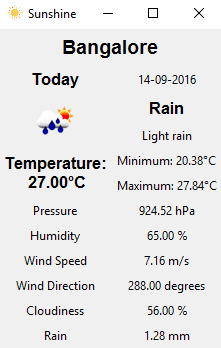
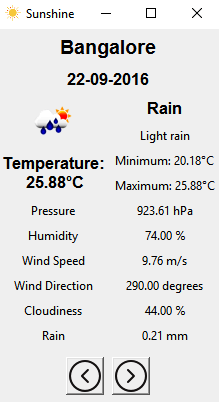
add feature to view weather of next 7 days

diff --git a/weather.py b/weather.py
@@ -11,32 +11,46 @@ from sys import platform as sp
 
 
 class Weather:
-
     def __init__(self, master):
         self.city_name = "Bangalore"
+        self.day = 0
         self.custom_font = tkFont.Font(family="Helvetica", size=12, weight="bold")
         self.custom_heading_font = tkFont.Font(family="Helvetica", size=14, weight="bold")
         self.current_city_id = self.get_city_id(self.city_name)  # open weather map city id
         if self.current_city_id != -1:  # if city id found
             # initialization of all member variables to None
-            self.t_dt = self.t_temp_day = self.t_temp_min = self.t_temp_max = self.t_pressure = \
-                self.t_humidity = self.t_weather_icon = self.t_weather_main = self.t_weather_desc = \
-                self.t_wind_speed = self.t_wind_dir = self.t_cloudiness = self.t_rain = None
+            self.t_dt = StringVar()
+            self.t_temp_day = StringVar()
+            self.t_temp_min = StringVar()
+            self.t_temp_max = StringVar()
+            self.t_pressure = StringVar()
+            self.t_humidity = StringVar()
+            self.t_weather_icon_url = None
+            self.t_weather_main = StringVar()
+            self.t_weather_desc = StringVar()
+            self.t_wind_speed = StringVar()
+            self.t_wind_dir = StringVar()
+            self.t_cloudiness = StringVar()
+            self.t_rain = StringVar()
+            self.label_weather_icon = Label(master)
             # retrieve and display weather data
-            self.get_weather_today(self.current_city_id)
+            self.get_weather(self.current_city_id, self.day)
             self.display_data(master)
 
-            # console log
-            print("UNIX Date: %d, Date: %s" % (self.t_dt, (datetime.datetime.fromtimestamp(self.t_dt))
-                                               .strftime('%d-%m-%Y %H:%M:%S')))
-            print("Temp day: %0.2f%sC" % (self.t_temp_day, degree_sign.encode('utf-8')))
-            print("Pressure: %0.2f hPa" % self.t_pressure)
-            print("Humidity: %0.2f %%" % self.t_humidity)
-            print("Weather: %s, Description: %s" % (self.t_weather_main, self.t_weather_desc))
-            print("Wind Speed: %0.2f m/s" % self.t_wind_speed)
-            print("Wind Direction, degrees: %0.2f" % self.t_wind_dir)
-            print("Cloudiness: %0.2f %%" % self.t_cloudiness)
-            print("Rain: %0.2f mm" % self.t_rain)
+            # bottom navigation frame
+            bottom_frame = Frame(master, height=2, borderwidth=1, relief=FLAT)
+            bottom_frame.grid(row=12, columnspan=2, padx=4, pady=4)
+
+            prev_img = ImageTk.PhotoImage(file="prev.png")
+            self.prev_button = Button(bottom_frame, text="<<", image=prev_img, command=self.go_to_prev)
+            self.prev_button.image = prev_img
+            self.prev_button.grid(row=12, column=0, padx=4, pady=4)
+            self.prev_button.config(state=DISABLED)
+
+            next_img = ImageTk.PhotoImage(file="next.png")
+            self.next_button = Button(bottom_frame, text=">>", image=next_img, command=self.go_to_next)
+            self.next_button.image = next_img
+            self.next_button.grid(row=12, column=1, padx=4, pady=4)
 
         else:
             # city id not found
@@ -44,32 +58,37 @@ class Weather:
             label_invalid.pack()
 
     # get the weather information of the passed city id
-    def get_weather_today(self, current_city_id):
+    def get_weather(self, current_city_id, day):
         current_weather_url = "http://api.openweathermap.org/data/2.5/forecast/daily?id=%d&units=metric&appid=%s" \
                               % (current_city_id, OPEN_WEATHER_API_KEY)
         with contextlib.closing(urlopen(current_weather_url)) as response:
             json_data = json.load(response)
         weather_list = json_data['list']
-        json_data_list = weather_list[0]
+        json_data_list = weather_list[day]
+        print(json_data_list)
         self.load_data_from_json(json_data_list)
 
     # retrieve data from passed json object
     def load_data_from_json(self, cur_json_list):
-        self.t_dt = cur_json_list['dt']
+        self.t_dt.set((datetime.datetime.fromtimestamp(cur_json_list['dt'])).strftime('%d-%m-%Y'))
         t_temp = cur_json_list['temp']
-        self.t_temp_day = t_temp['day']
-        self.t_temp_min = t_temp['min']
-        self.t_temp_max = t_temp['max']
-        self.t_pressure = cur_json_list['pressure']
-        self.t_humidity = cur_json_list['humidity']
+        self.t_temp_day.set("Temperature:\n %0.2f%sC" % (t_temp['day'], degree_sign.encode('utf-8')))
+        self.t_temp_min.set("Minimum: %0.2f%sC" % (t_temp['min'], degree_sign.encode('utf-8')))
+        self.t_temp_max.set("Maximum: %0.2f%sC" % (t_temp['max'], degree_sign.encode('utf-8')))
+        self.t_pressure.set("%0.2f hPa" % cur_json_list['pressure'])
+        self.t_humidity.set("%0.2f %%" % cur_json_list['humidity'])
         t_weather = cur_json_list['weather'][0]
-        self.t_weather_main = t_weather['main']
-        self.t_weather_desc = t_weather['description']
-        self.t_weather_icon = t_weather['icon']
-        self.t_wind_speed = cur_json_list['speed']
-        self.t_wind_dir = cur_json_list['deg']
-        self.t_cloudiness = cur_json_list['clouds']
-        self.t_rain = cur_json_list['rain']
+        self.t_weather_main.set(t_weather['main'])
+        self.t_weather_desc.set(t_weather['description'].capitalize())
+        t_weather_icon = t_weather['icon']
+        self.t_weather_icon_url = "http://openweathermap.org/img/w/%s.png" % t_weather_icon
+        self.t_wind_speed.set("%0.2f m/s" % cur_json_list['speed'])
+        self.t_wind_dir.set("%0.2f degrees" % cur_json_list['deg'])
+        self.t_cloudiness.set("%0.2f %%" % cur_json_list['clouds'])
+        if 'rain' in cur_json_list:
+            self.t_rain.set("%0.2f mm" % cur_json_list['rain'])
+        else:
+            self.t_rain.set("No rain today.")
 
     # find open weather map city id for the given city name
     @staticmethod
@@ -82,61 +101,99 @@ class Weather:
             if city['name'] == city_name:
                 return city['_id']
         else:
-            return -1   # city id not found
+            return -1  # city id not found
 
     # display retrieved data on GUI
     def display_data(self, master):
         label_city = Label(master, text=self.city_name, font=self.custom_heading_font)
         label_city.grid(row=0, columnspan=2, padx=4, pady=4)
 
-        Label(master, text="Today", font=self.custom_font).grid(row=1, column=0, padx=2, pady=2)
-        label_time = Label(master, text=(datetime.datetime.fromtimestamp(self.t_dt)).strftime('%d-%m-%Y'))
-        label_time.grid(row=1, column=1, padx=2, pady=2)
+        label_time = Label(master, textvariable=self.t_dt, font=self.custom_font)
+        label_time.grid(row=1, columnspan=2, padx=2, pady=2)
 
-        weather_icon_url = "http://openweathermap.org/img/w/%s.png" % self.t_weather_icon
-        with contextlib.closing(urlopen(weather_icon_url)) as raw_data:
+        self.set_weather_icon()
+
+        Label(master, textvariable=self.t_weather_main, font=self.custom_font).grid(row=2, column=1, padx=2, pady=2)
+        Label(master, textvariable=self.t_weather_desc).grid(row=3, column=1, padx=2, pady=2)
+
+        label_temp_day = Label(master, textvariable=self.t_temp_day, font=self.custom_font)
+        label_temp_day.grid(row=4, column=0, rowspan=2, padx=2, pady=2)
+        Label(master, textvariable=self.t_temp_min).grid(row=4, column=1, padx=2, pady=2)
+        Label(master, textvariable=self.t_temp_max).grid(row=5, column=1, padx=2, pady=2)
+
+        Label(master, text="Pressure").grid(row=6, column=0, padx=2, pady=2)
+        Label(master, textvariable=self.t_pressure).grid(row=6, column=1, padx=2, pady=2)
+
+        Label(master, text="Humidity").grid(row=7, column=0, padx=2, pady=2)
+        Label(master, textvariable=self.t_humidity).grid(row=7, column=1, padx=2, pady=2)
+
+        Label(master, text="Wind Speed").grid(row=8, column=0, padx=2, pady=2)
+        Label(master, textvariable=self.t_wind_speed).grid(row=8, column=1, padx=2, pady=2)
+
+        Label(master, text="Wind Direction").grid(row=9, column=0, padx=2, pady=2)
+        Label(master, textvariable=self.t_wind_dir).grid(row=9, column=1, padx=2, pady=2)
+
+        Label(master, text="Cloudiness").grid(row=10, column=0, padx=2, pady=2)
+        Label(master, textvariable=self.t_cloudiness).grid(row=10, column=1, padx=2, pady=2)
+
+        Label(master, text="Rain").grid(row=11, column=0, padx=2, pady=2)
+        Label(master, textvariable=self.t_rain).grid(row=11, column=1, padx=2, pady=2)
+
+    # set the weather icon
+    def set_weather_icon(self):
+        with contextlib.closing(urlopen(self.t_weather_icon_url)) as raw_data:
             image = Image.open(BytesIO(raw_data.read()))
         weather_icon = ImageTk.PhotoImage(image)
-        label_icon = Label(master, image=weather_icon)
-        label_icon.image = weather_icon     # keep a reference
+        self.label_weather_icon.configure(image=weather_icon)
+        self.label_weather_icon.image = weather_icon  # keep a reference
         # When a PhotoImage object is garbage-collected by Python
         # (e.g. when you return from a function which stored an image in a local variable),
         # the image is cleared even if it is being displayed by a Tkinter widget.
         # To avoid this, the program must keep an extra reference to the image object.
-        label_icon.grid(row=2, rowspan=2, column=0)
-        Label(master, text=self.t_weather_main, font=self.custom_font).grid(row=2, column=1, padx=2, pady=2)
-        Label(master, text=self.t_weather_desc.capitalize()).grid(row=3, column=1, padx=2, pady=2)
+        self.label_weather_icon.grid(row=2, rowspan=2, column=0)
 
-        label_temp_day = Label(master, text="Temperature:\n %0.2f%sC" % (self.t_temp_day, degree_sign.encode('utf-8')),
-                               font=self.custom_font)
-        label_temp_day.grid(row=4, column=0, rowspan=2, padx=2, pady=2)
-        Label(master, text="Minimum: %0.2f%sC" % (self.t_temp_min, degree_sign.encode('utf-8')))\
-            .grid(row=4, column=1, padx=2, pady=2)
-        Label(master, text="Maximum: %0.2f%sC" % (self.t_temp_max, degree_sign.encode('utf-8')))\
-            .grid(row=5, column=1, padx=2, pady=2)
+    # get the previous day's weather
+    def go_to_prev(self):
+        print("Go to previous day")
+        self.day -= 1
+        if self.day > 6:
+            self.day = 6
+        elif self.day < 0:
+            self.day = 0
+        else:
+            self.get_weather(self.current_city_id, self.day)
+            self.set_weather_icon()
+        self.button_state_check()
 
-        Label(master, text="Pressure").grid(row=6, column=0, padx=2, pady=2)
-        Label(master, text="%0.2f hPa" % self.t_pressure).grid(row=6, column=1, padx=2, pady=2)
+    # get the next day's weather
+    def go_to_next(self):
+        print("Go to next day")
+        self.day += 1
+        if self.day > 6:
+            self.day = 6
+        elif self.day < 0:
+            self.day = 0
+        else:
+            self.get_weather(self.current_city_id, self.day)
+            self.set_weather_icon()
+        self.button_state_check()
 
-        Label(master, text="Humidity").grid(row=7, column=0, padx=2, pady=2)
-        Label(master, text="%0.2f %%" % self.t_humidity).grid(row=7, column=1, padx=2, pady=2)
-
-        Label(master, text="Wind Speed").grid(row=8, column=0, padx=2, pady=2)
-        Label(master, text="%0.2f m/s" % self.t_wind_speed).grid(row=8, column=1, padx=2, pady=2)
-
-        Label(master, text="Wind Direction").grid(row=9, column=0, padx=2, pady=2)
-        Label(master, text="%0.2f degrees" % self.t_wind_dir).grid(row=9, column=1, padx=2, pady=2)
-
-        Label(master, text="Cloudiness").grid(row=10, column=0, padx=2, pady=2)
-        Label(master, text="%0.2f %%" % self.t_cloudiness).grid(row=10, column=1, padx=2, pady=2)
-
-        Label(master, text="Rain").grid(row=11, column=0, padx=2, pady=2)
-        Label(master, text="%0.2f mm" % self.t_rain).grid(row=11, column=1, padx=2, pady=2)
+    # update the state of the navigation buttons
+    def button_state_check(self):
+        if self.day == 0:
+            self.prev_button.config(state=DISABLED)
+            self.next_button.config(state=NORMAL)
+        elif self.day == 6:
+            self.prev_button.config(state=NORMAL)
+            self.next_button.config(state=DISABLED)
+        else:
+            self.prev_button.config(state=NORMAL)
+            self.next_button.config(state=NORMAL)
 
 
 root = Tk()
 root.wm_title("Sunshine")
-if sp=='linux' or sp=='linux2' or sp=='darwin':
+if sp == 'linux' or sp == 'linux2' or sp == 'darwin':
     img = PhotoImage(file='sun.png')
     root.tk.call('wm', 'iconphoto', root._w, img)
 else:

diff --git a/setup.py b/setup.py
@@ -10,7 +10,9 @@ executables = [cx_Freeze.Executable("weather.py", base=base, icon="sun.ico")]
 
 cx_Freeze.setup(
     name="Sunshine",
-    options={"build_exe": {"packages": ["Tkinter", "PIL"], "include_files": ["keys.py", "sun.ico", "city.list.json"]}},
+    options={"build_exe": {"packages": ["Tkinter", "PIL"], "include_files": ["keys.py", "sun.ico", "sun.png",
+                                                                             "next.png", "prev.png",
+                                                                             "city.list.json"]}},
     version="0.01",
     description="Simple weather GUI application",
     executables=executables
